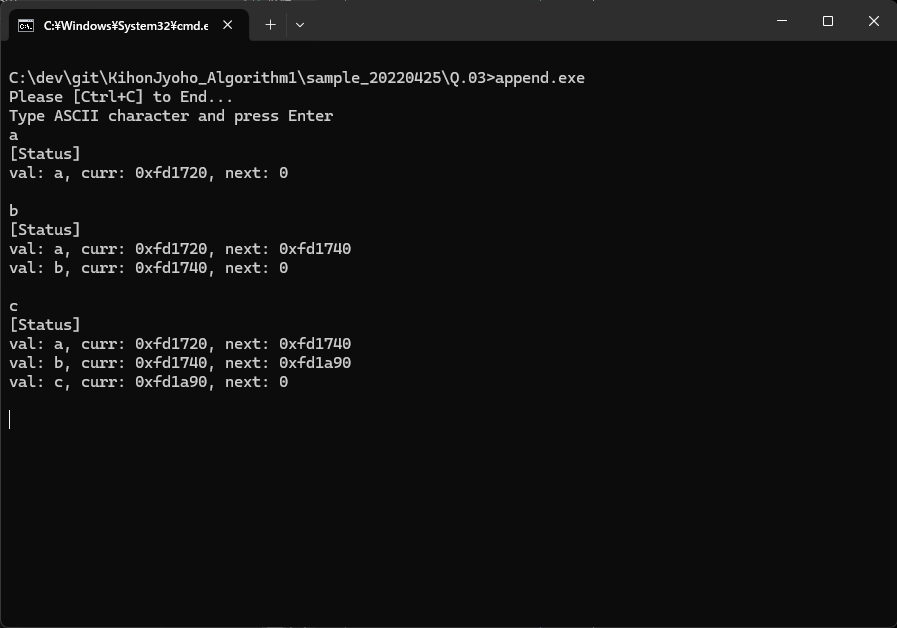
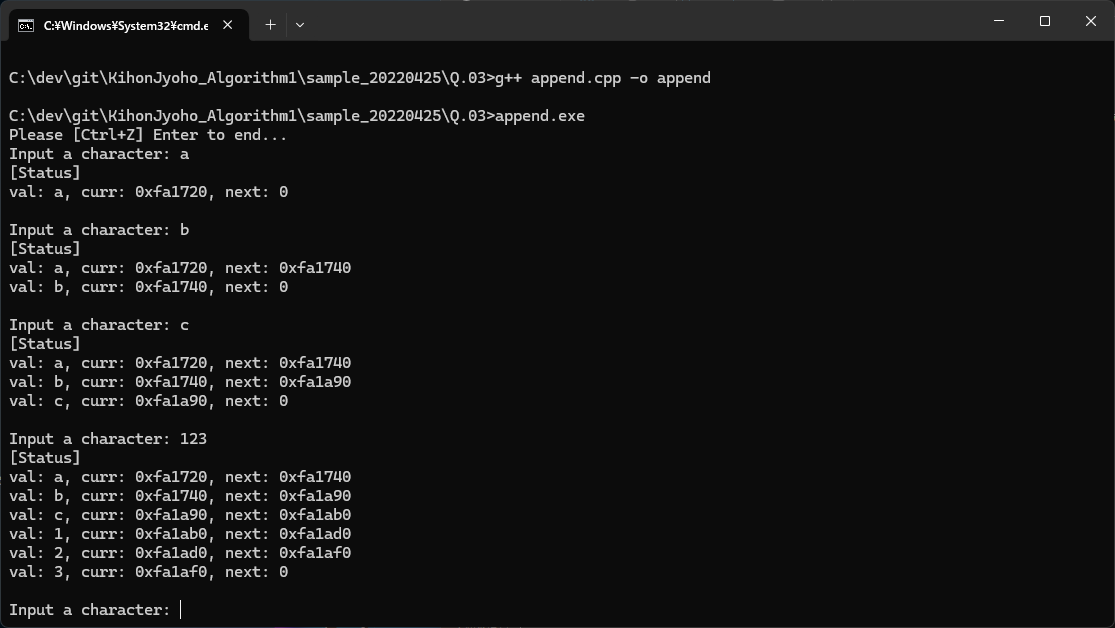
2025.06.25 微調整＆実行イメージ追加

diff --git a/sample_20220425/Q.03/append.cpp b/sample_20220425/Q.03/append.cpp
@@ -31,17 +31,27 @@ void printList(ListElement* head) {
   cout << endl;
 }
 
-int main(int argc, char** argv) {
+void prompt() {
   char c;
-  cout << "Please [Ctrl+C] to End...\n";
-  cout << "Type ASCII character and press Enter\n";
+  bool isBuf = false;
+  cout << "Please [Ctrl+Z] Enter to end...\n";
   while (true) {
-    cin >> c;
-    if (cin.eof()) {
-      break; 
-    }
+    if (!isBuf) cout << "Input a character: ";
+    cin.get(c);
+    if (cin.eof()) break;
+    if (c == '\n') continue;
     append(c);
-    printList(listHead);
+    if (cin.peek() == '\n') {
+      isBuf = false;
+      cin.get();
+      printList(listHead);
+    } else {
+      isBuf = true;
+    }
   }
+}
+
+int main() {
+  prompt();
   return 0;
 }
